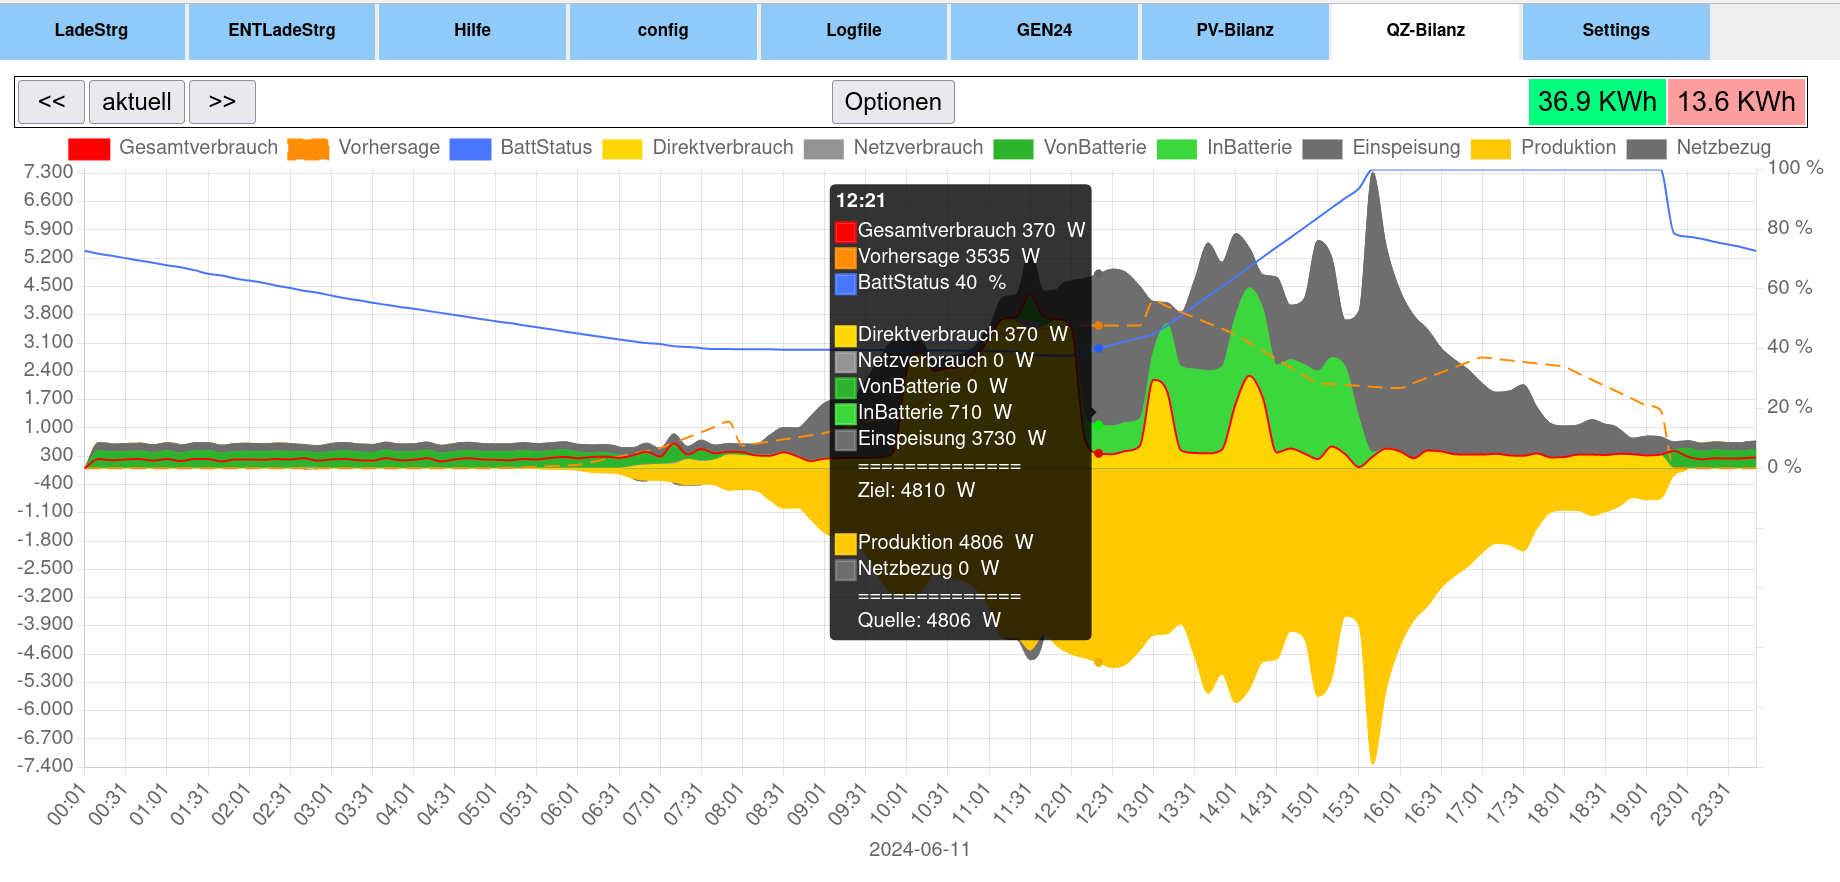
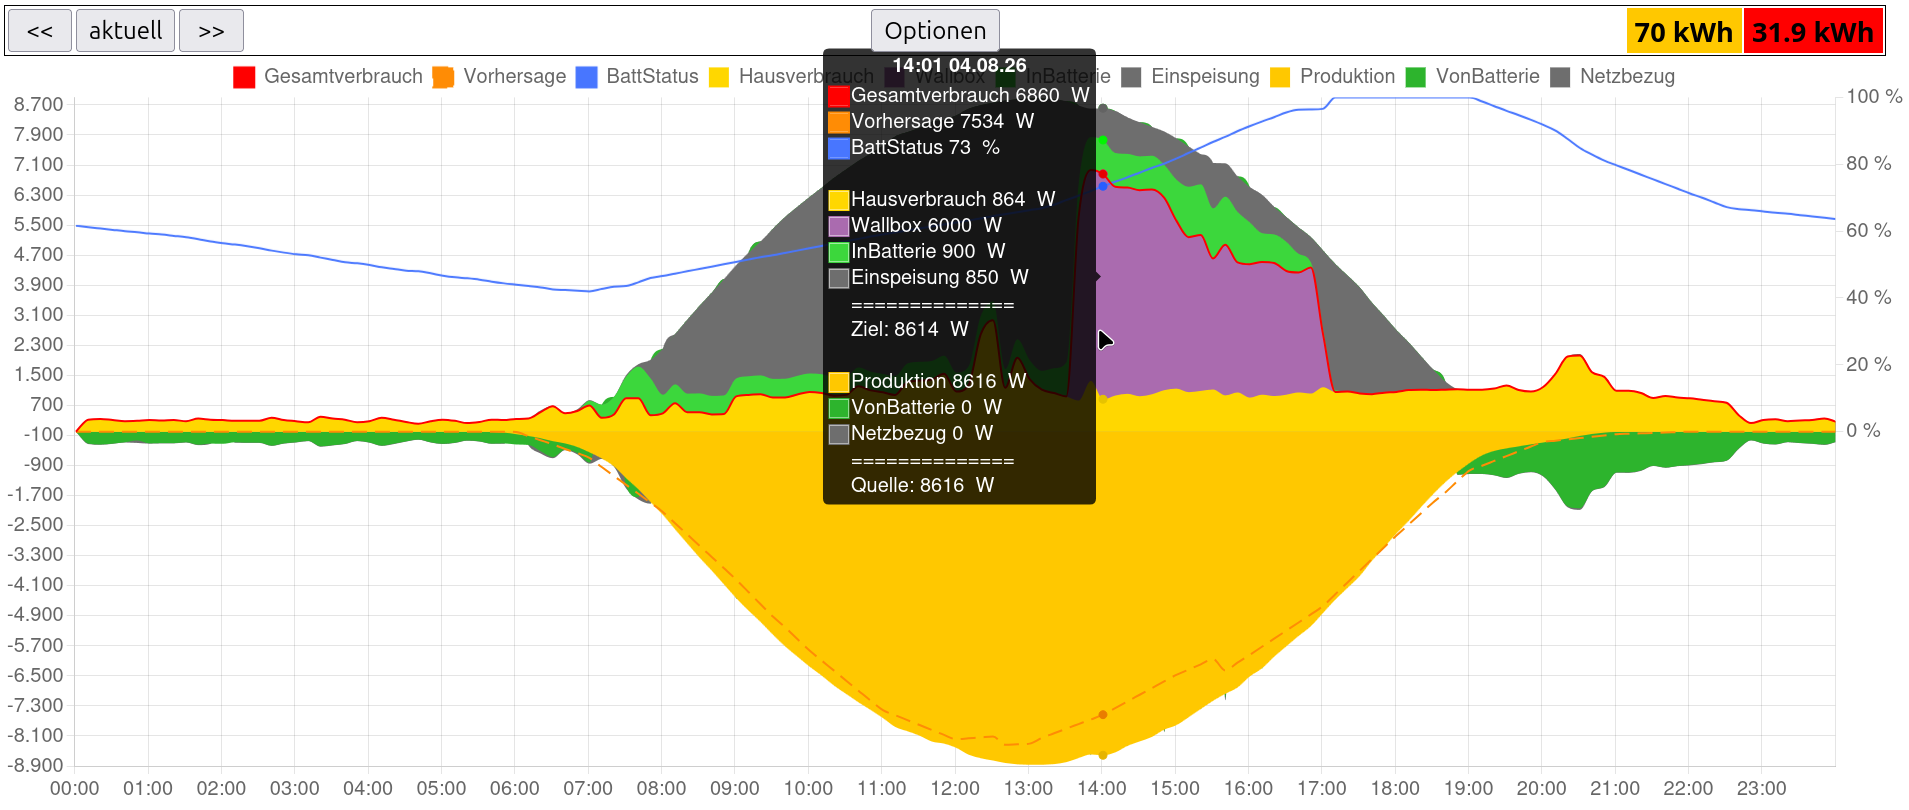
Doku ergänzt

diff --git a/html/8_funktion_Diagram.php b/html/8_funktion_Diagram.php
@@ -591,14 +591,16 @@ echo "    }]
                     for (var i = 0; i < context.chart.tooltip.dataPoints.length; i++){
                     switch (context.chart.tooltip.dataPoints[i].dataset.label) {
                         case 'Netzbezug':
+                        case 'VonBatterie':
                         case 'Produktion':
                             total_Q += context.chart.tooltip.dataPoints[i].raw;
                         break;
                         case 'Hausverbrauch':
                         case 'InBatterie':
-                        case 'VonBatterie':
                         case 'Einspeisung':
                         case 'Netzverbrauch':
+                        case 'Wallbox':
+                        case 'Ohmpilot':
                             total_Z += context.chart.tooltip.dataPoints[i].raw;
                         break;
                     }

diff --git a/FUNCTIONS/DynamicPrice.py b/FUNCTIONS/DynamicPrice.py
@@ -202,7 +202,7 @@ class dynamic:
                     brutto_preis = round((row[1] / 1000 + Nettoaufschlag + Tageszeit_Preisanteil[quarter_time]) * MwSt, 4)
 
                     # Zeitpunkt, Bruttopreis, Börsenpreis
-                    pricelist_date.append((time_str, brutto_preis, round(row[1] / 1000, 3)))
+                    pricelist_date.append((time_str, brutto_preis, round(row[1] / 1000, 5)))
 
         except Exception as e:
             print(f"### WARNUNG: Keine verwertbaren Daten von {provider}: {e}")

diff --git a/docs/README.md b/docs/README.md
@@ -85,7 +85,7 @@ im Batteriemanagement des Wechselrichters.
 Die **Einspeisebegrenzung** und die **AC-Kapazität der Wechselrichters** muss hier nicht berücksichtigt werden,
 da dies das Batteriemanagement des GEN24 selber regelt (auch über der definierten `Maximale Ladeleistung`!)
 
-### 💲🔌 DynamicPriceCheck.pyInst_RaspPi.html
+### 💲🔌 DynamicPriceCheck.py
 Es werden die günstigsten Stunden zum Laden des Akkus aus dem Netz, bzw. eines Akku Entladestopps ermittelt. 
 Der Aufruf von DynamicPriceCheck.py sollte einmal stündlich am besten zwei Minuten vor der vollen Stunde erfolgen.  
 Siehe hierzu Settings => Scheduler.
